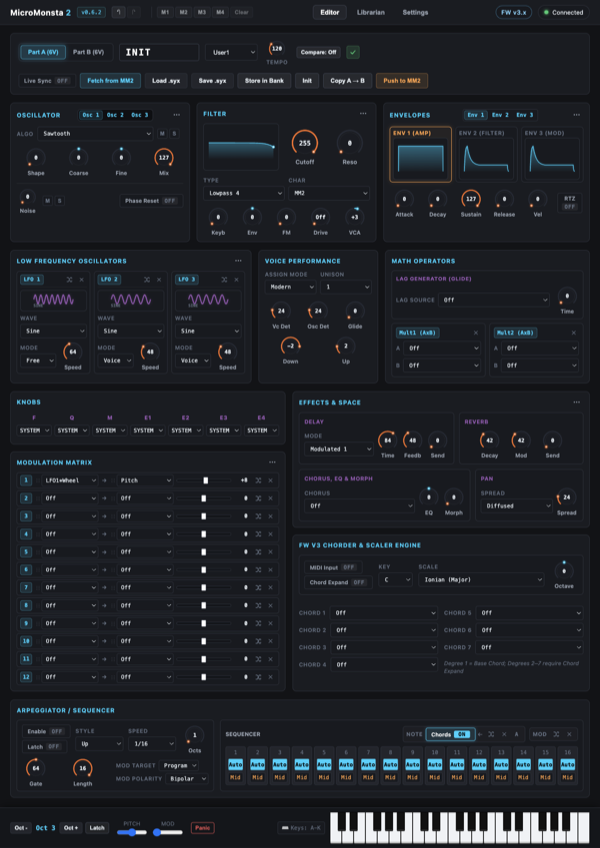
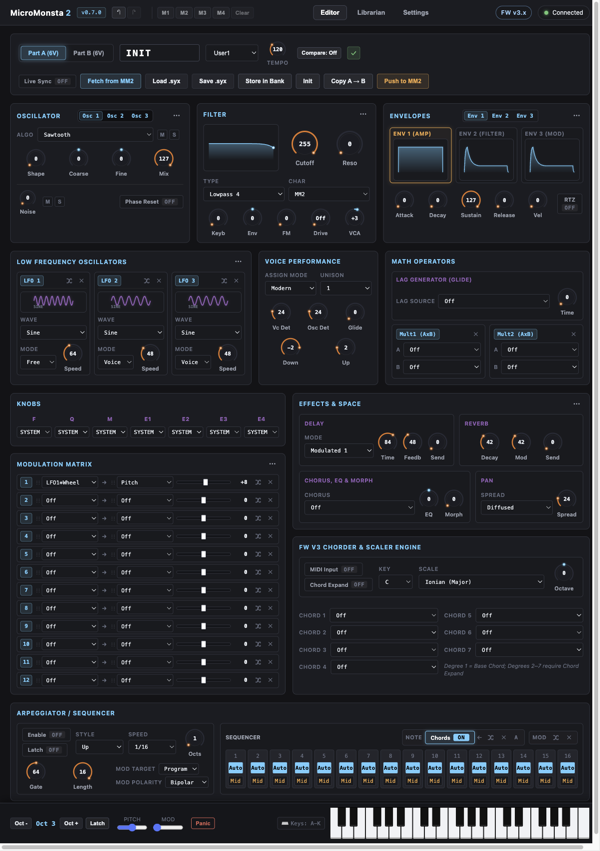
chore(release): prepare release v0.7.0

diff --git a/index.html b/index.html
@@ -7,7 +7,7 @@
     <title>MicroMonsta 2 Editor & Patch Librarian</title>
     <meta name="description"
         content="Hardware editor, patch librarian, and duplicate manager for Audiothingies MicroMonsta 2.">
-    <link rel="stylesheet" href="css/style.css?v=0.6.2">
+    <link rel="stylesheet" href="css/style.css?v=0.7.0">
 </head>
 
 <body>
@@ -363,14 +363,14 @@
     </dialog>
 
     <!-- Application Scripts -->
-    <script src="js/version.js?v=0.6.2"></script>
-    <script src="js/mm2-specs.js?v=0.6.2"></script>
-    <script src="js/sysex-parser.js?v=0.6.2"></script>
-    <script src="js/patch-librarian.js?v=0.6.2"></script>
-    <script src="js/tab-sync.js?v=0.6.2"></script>
-    <script src="js/midi-manager.js?v=0.6.2"></script>
-    <script src="js/ui-controls.js?v=0.6.2"></script>
-    <script src="js/app.js?v=0.6.2"></script>
+    <script src="js/version.js?v=0.7.0"></script>
+    <script src="js/mm2-specs.js?v=0.7.0"></script>
+    <script src="js/sysex-parser.js?v=0.7.0"></script>
+    <script src="js/patch-librarian.js?v=0.7.0"></script>
+    <script src="js/tab-sync.js?v=0.7.0"></script>
+    <script src="js/midi-manager.js?v=0.7.0"></script>
+    <script src="js/ui-controls.js?v=0.7.0"></script>
+    <script src="js/app.js?v=0.7.0"></script>
 </body>
 
 </html>

diff --git a/js/version.js b/js/version.js
@@ -6,7 +6,7 @@
 // The pre-commit hook automatically keeps package.json in sync with this value.
 // ============================================================================
 
-const APP_VERSION = '0.6.2';
+const APP_VERSION = '0.7.0';
 
 if (typeof module !== 'undefined' && module.exports) {
     module.exports = { APP_VERSION };

diff --git a/README.md b/README.md
@@ -43,7 +43,7 @@ See [CHANGELOG.md](CHANGELOG.md) for a summary of changes.
    - Use **Fetch from MM2** / **Push to MM2** for quick transfers from/to current hardware state. Use the `Compare` toggle to hear differences quickly, OR:
    - Use **Live Sync** mode which streams changes directly to hardware over 7-bit/14-bit NRPN (great for testing modulations).
    - **Four (4) patch memories** for quick comparisons of entire patches.
-- **Full Multi-step Undo / Redo:** Uses`Cmd/Ctrl+Z`, `Cmd/Ctrl+Y` to make it easy to rewind or replay changes.
+- **Full Multi-step Undo / Redo:** Uses `Cmd/Ctrl+Z`, `Cmd/Ctrl+Y`, and a click-and-hold history popup on the Undo/Redo buttons to rewind or replay changes.
 - **Built-In Keyboard and Chorder Preview**: Always-available 3-octave bottom keyboard with QWERTY note input, octave controls, per-part latch and key/chorder highlighting, pitch/mod wheels, MIDI Panic, and voice assignment tracking.
 - **Patch Librarian and Duplicate Manager**: Organize and duplicate banks locally, drag-and-drop to reorder, copy, or move patches (including multi-select) across banks with Undo/Redo, search and filter by category, import/export `.syx` files, and detect or condense redundant duplicate patches.
 - **Privacy Respecting and Zero Setup**: Runs **100% LOCALLY** in your browser with zero dependencies, no account, and no data leaving your machine. 

diff --git a/CHANGELOG.md b/CHANGELOG.md
@@ -7,6 +7,10 @@ and this project adheres to [Semantic Versioning](https://semver.org/spec/v2.0.0
 
 ## [Unreleased]
 
+---
+
+## [0.7.0] - 2026-11-20
+
 ### Added
 - **Editor:** Show compact history popup (up to 15 actions) on Undo/Redo click-and-hold.
 - **Editor:** Show last undo-able and redo-able action in Undo/Redo tooltips.
